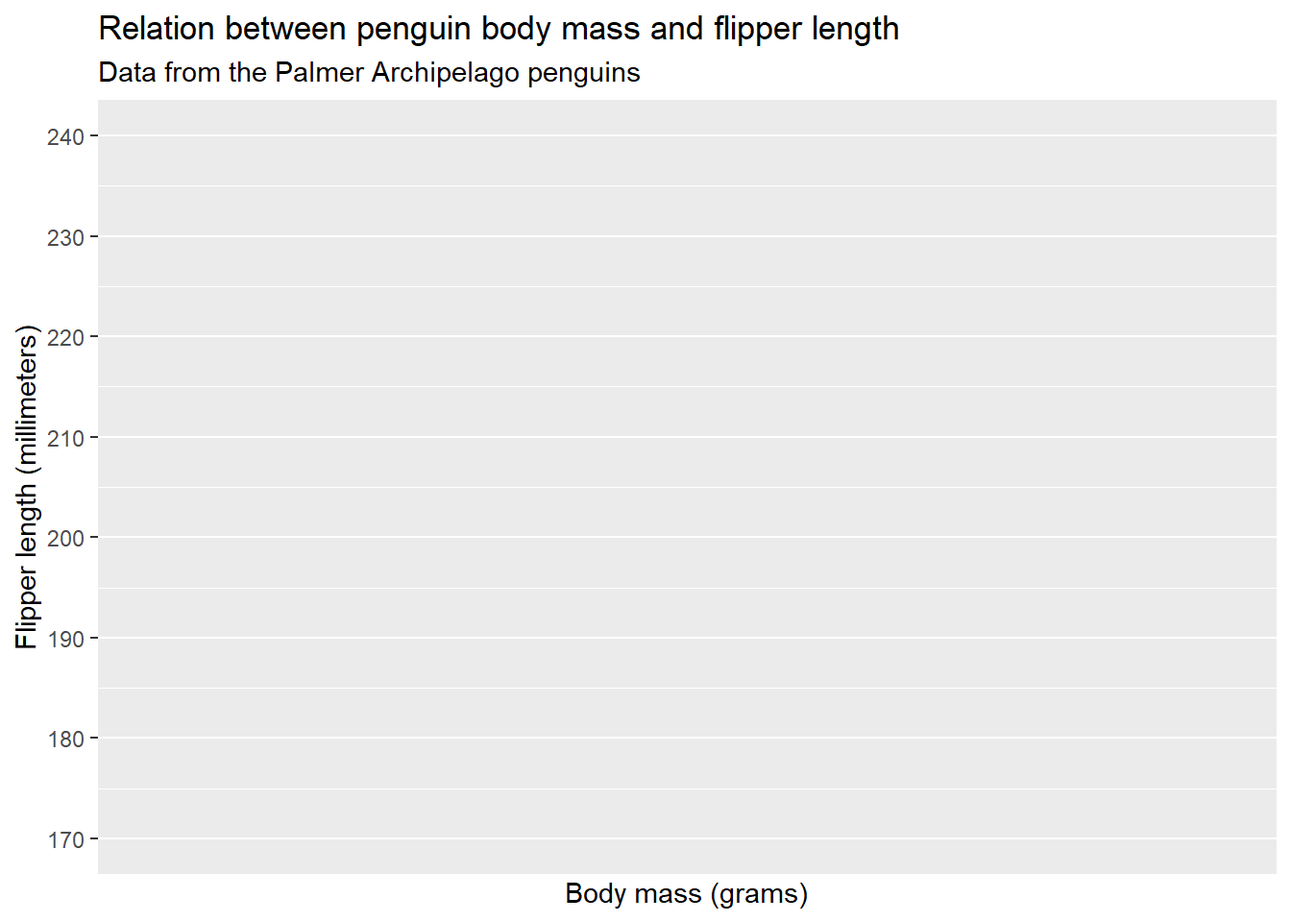
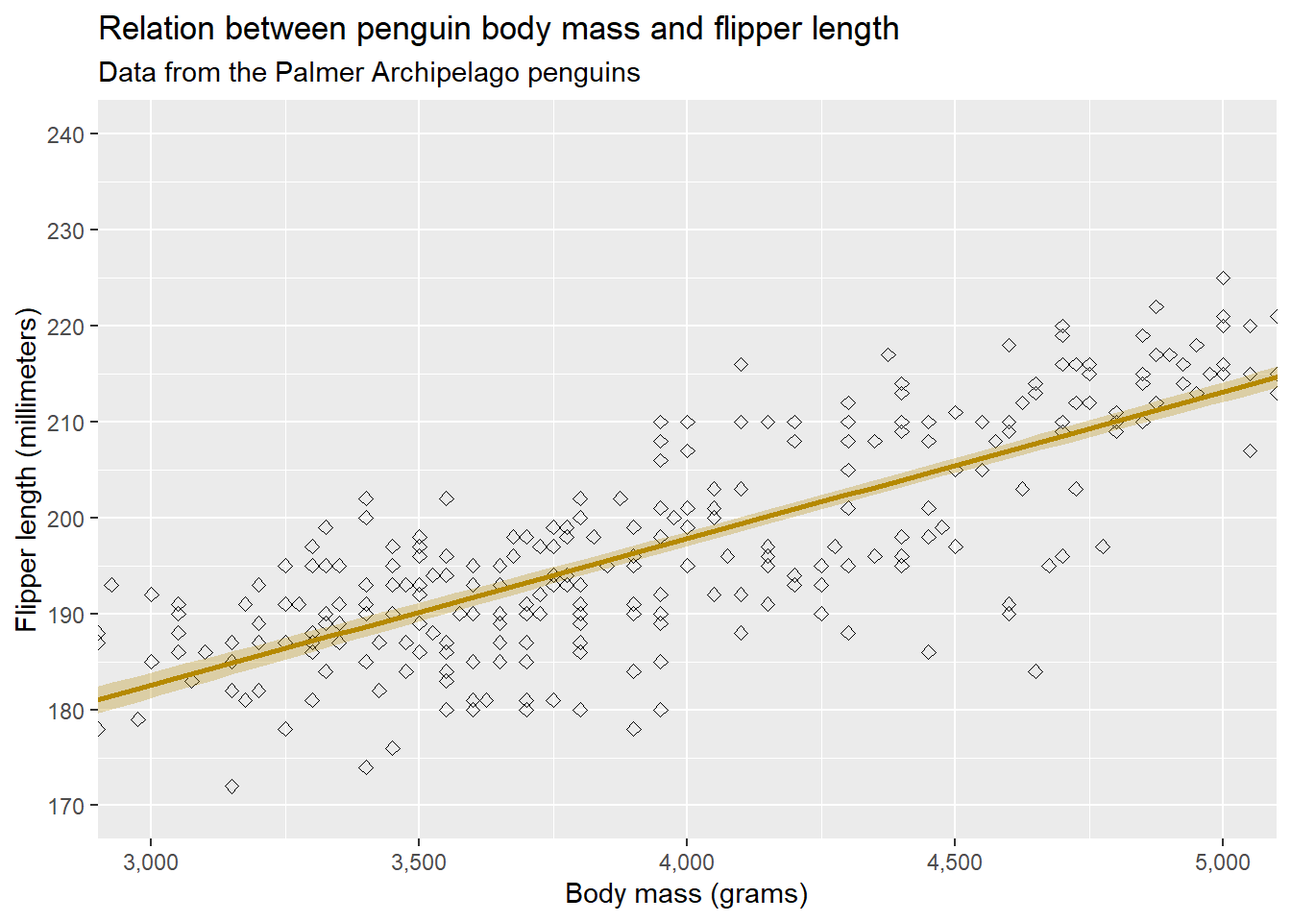
Built site for gh-pages

diff --git a/plotting.html b/plotting.html
@@ -424,13 +424,10 @@ pre > code.sourceCode > span > a:first-child::before { text-decoration: underlin
 <p>As example data, we will use the package <code>{palmerpenguins}</code>, which contains data on 344 penguins from three islands in the Palmer Archipelago, Antarctica (more <a href="https://allisonhorst.github.io/palmerpenguins/">here</a>).</p>
 <p>We will also load the <code>{ggplot2}</code> package. The <code>{graphics}</code> package is installed and loaded by default.</p>
 <div class="cell">
-<details class="code-fold">
-<summary>Answer</summary>
 <div class="sourceCode cell-code" id="cb1"><pre class="sourceCode numberSource r number-lines code-with-copy"><code class="sourceCode r"><span id="cb1-1"><a href="#cb1-1"></a><span class="co"># Load packages</span></span>
 <span id="cb1-2"><a href="#cb1-2"></a>pacman<span class="sc">::</span><span class="fu">p_load</span>(<span class="st">"ggplot2"</span>,          <span class="co"># Data visualization</span></span>
 <span id="cb1-3"><a href="#cb1-3"></a>               <span class="st">"palmerpenguins"</span>    <span class="co"># Example data</span></span>
 <span id="cb1-4"><a href="#cb1-4"></a>               )</span></code><button title="Copy to Clipboard" class="code-copy-button"><i class="bi"></i></button></pre></div>
-</details>
 </div>
 </section>
 <section id="ggplot2" class="level2">
@@ -440,10 +437,7 @@ pre > code.sourceCode > span > a:first-child::before { text-decoration: underlin
 <h3 class="anchored" data-anchor-id="layer-1-the-data">Layer 1: the data</h3>
 <p>The first layer we specify is the data layer. In this layer, we specify our data and the mapping of the aesthetics, meaning we define what our x-axis will portray, the y-axis, what colours, etc. will portray. This first layer is called using <code>ggplot()</code>:</p>
 <div class="cell">
-<details class="code-fold">
-<summary>Answer</summary>
 <div class="sourceCode cell-code" id="cb2"><pre class="sourceCode numberSource r number-lines code-with-copy"><code class="sourceCode r"><span id="cb2-1"><a href="#cb2-1"></a><span class="fu">ggplot</span>(penguins, <span class="fu">aes</span>(<span class="at">x =</span> body_mass_g, <span class="at">y =</span> flipper_length_mm))</span></code><button title="Copy to Clipboard" class="code-copy-button"><i class="bi"></i></button></pre></div>
-</details>
 <div class="cell-output-display">
 <div>
 <figure class="figure">
@@ -459,12 +453,9 @@ pre > code.sourceCode > span > a:first-child::before { text-decoration: underlin
 <p>Now we can add the geometries. We are offered a large number of geometries by <code>{ggplot2}</code>, with some basics including points, lines, bars, histograms, rectangles, segments, steps, and ribbons. Each geometry is called by a <code>geom_...()</code> function, such as <code>geom_point()</code> and <code>geom_line()</code>.</p>
 <p>For our figure, we will add points.</p>
 <div class="cell">
-<details class="code-fold">
-<summary>Answer</summary>
 <div class="sourceCode cell-code" id="cb3"><pre class="sourceCode numberSource r number-lines code-with-copy"><code class="sourceCode r"><span id="cb3-1"><a href="#cb3-1"></a><span class="fu">ggplot</span>(penguins, <span class="fu">aes</span>(<span class="at">x =</span> body_mass_g, <span class="at">y =</span> flipper_length_mm)) <span class="sc">+</span></span>
 <span id="cb3-2"><a href="#cb3-2"></a>    <span class="co"># Geometries</span></span>
 <span id="cb3-3"><a href="#cb3-3"></a>    <span class="fu">geom_point</span>()</span></code><button title="Copy to Clipboard" class="code-copy-button"><i class="bi"></i></button></pre></div>
-</details>
 <div class="cell-output cell-output-stderr">
 <pre><code>Warning: Removed 2 rows containing missing values or values outside the scale range
 (`geom_point()`).</code></pre>
@@ -482,13 +473,10 @@ pre > code.sourceCode > span > a:first-child::before { text-decoration: underlin
 <p>Note that any geometry is applied in subsequent order. If we add a trendline (<code>geom_smooth(method = "lm", formula = "y ~ x")</code>), this will be drawn on top of the points if we specify it after <code>geom_point()</code> or before if we specify it before <code>geom_point()</code>.</p>
 <p>Let’s do this now:</p>
 <div class="cell">
-<details class="code-fold">
-<summary>Answer</summary>
 <div class="sourceCode cell-code" id="cb5"><pre class="sourceCode numberSource r number-lines code-with-copy"><code class="sourceCode r"><span id="cb5-1"><a href="#cb5-1"></a><span class="fu">ggplot</span>(penguins, <span class="fu">aes</span>(<span class="at">x =</span> body_mass_g, <span class="at">y =</span> flipper_length_mm)) <span class="sc">+</span></span>
 <span id="cb5-2"><a href="#cb5-2"></a>    <span class="co"># Geometries</span></span>
 <span id="cb5-3"><a href="#cb5-3"></a>    <span class="fu">geom_point</span>(<span class="at">shape =</span> <span class="dv">5</span>) <span class="sc">+</span></span>
 <span id="cb5-4"><a href="#cb5-4"></a>    <span class="fu">geom_smooth</span>(<span class="at">method =</span> <span class="st">"lm"</span>, <span class="at">formula =</span> <span class="st">"y ~ x"</span>, <span class="at">colour =</span> <span class="st">"#B58900"</span>, <span class="at">fill =</span> <span class="st">"#B58900"</span>, <span class="at">alpha =</span> <span class="fl">0.3</span>) </span></code><button title="Copy to Clipboard" class="code-copy-button"><i class="bi"></i></button></pre></div>
-</details>
 <div class="cell-output cell-output-stderr">
 <pre><code>Warning: Removed 2 rows containing non-finite outside the scale range
 (`stat_smooth()`).</code></pre>
@@ -525,8 +513,6 @@ Note
 </div>
 <p>In our current plot, we have two scales: the x-axis and y-axis. We can edit these using scale functions that concur with the scale type (i.e.&nbsp;continuous, discrete, etc.). In our case, both scales are continuous, so we will use <code>scale_x_continuous()</code> and <code>scale_y_continuous()</code>. For other types of scales, we might also use <code>scale_x_discrete()</code>, <code>scale_x_date()</code>, etc.</p>
 <div class="cell">
-<details class="code-fold">
-<summary>Answer</summary>
 <div class="sourceCode cell-code" id="cb8"><pre class="sourceCode numberSource r number-lines code-with-copy"><code class="sourceCode r"><span id="cb8-1"><a href="#cb8-1"></a><span class="fu">ggplot</span>(penguins, <span class="fu">aes</span>(<span class="at">x =</span> body_mass_g, <span class="at">y =</span> flipper_length_mm)) <span class="sc">+</span></span>
 <span id="cb8-2"><a href="#cb8-2"></a>    <span class="co"># Geometries</span></span>
 <span id="cb8-3"><a href="#cb8-3"></a>    <span class="fu">geom_point</span>(<span class="at">shape =</span> <span class="dv">5</span>) <span class="sc">+</span></span>
@@ -539,7 +525,6 @@ Note
 <span id="cb8-10"><a href="#cb8-10"></a>    <span class="fu">scale_y_continuous</span>(<span class="at">name =</span> <span class="st">"Flipper length (millimeters)"</span>,</span>
 <span id="cb8-11"><a href="#cb8-11"></a>                       <span class="at">limits =</span> <span class="fu">c</span>(<span class="dv">170</span>, <span class="dv">240</span>),</span>
 <span id="cb8-12"><a href="#cb8-12"></a>                       <span class="at">breaks =</span> <span class="fu">seq</span>(<span class="dv">170</span>, <span class="dv">240</span>, <span class="dv">10</span>))                     </span></code><button title="Copy to Clipboard" class="code-copy-button"><i class="bi"></i></button></pre></div>
-</details>
 <div class="cell-output cell-output-stderr">
 <pre><code>Warning: Removed 2 rows containing non-finite outside the scale range
 (`stat_smooth()`).</code></pre>
@@ -559,8 +544,6 @@ Note
 <p>In the scale functions, we can give the name of the axis, the limits of the axis, at which points there should be ticks (<code>breaks</code>), and the labels given to each tick.</p>
 <p>One more thing we can do in the scale functions is determine the expansion. By default, <code>{ggplot2}</code> expands the axes a bit so that the figure does not seem too cropped. Sometimes, however, we might want to remove or change this. If we want to remove this, we can use <code>expand = c(0, 0)</code> in the scaling arguments for each axis:</p>
 <div class="cell">
-<details class="code-fold">
-<summary>Answer</summary>
 <div class="sourceCode cell-code" id="cb11"><pre class="sourceCode numberSource r number-lines code-with-copy"><code class="sourceCode r"><span id="cb11-1"><a href="#cb11-1"></a><span class="fu">ggplot</span>(penguins, <span class="fu">aes</span>(<span class="at">x =</span> body_mass_g, <span class="at">y =</span> flipper_length_mm)) <span class="sc">+</span></span>
 <span id="cb11-2"><a href="#cb11-2"></a>    <span class="co"># Geometries</span></span>
 <span id="cb11-3"><a href="#cb11-3"></a>    <span class="fu">geom_point</span>(<span class="at">shape =</span> <span class="dv">5</span>) <span class="sc">+</span></span>
@@ -569,12 +552,11 @@ Note
 <span id="cb11-6"><a href="#cb11-6"></a>    <span class="fu">scale_x_continuous</span>(<span class="at">name =</span> <span class="st">"Body mass (grams)"</span>,</span>
 <span id="cb11-7"><a href="#cb11-7"></a>                       <span class="at">limits =</span> <span class="fu">c</span>(<span class="dv">2500</span>, <span class="dv">6500</span>),</span>
 <span id="cb11-8"><a href="#cb11-8"></a>                       <span class="at">breaks =</span> <span class="fu">seq</span>(<span class="dv">2500</span>, <span class="dv">6500</span>, <span class="dv">500</span>),</span>
-<span id="cb11-9"><a href="#cb11-9"></a>                       <span class="at">labels =</span> <span class="fu">prettyNum</span>(<span class="fu">seq</span>(<span class="dv">2500</span>, <span class="dv">6500</span>, <span class="dv">500</span>), <span class="at">big.mark =</span> <span class="st">","</span>)) <span class="sc">+</span></span>
-<span id="cb11-10"><a href="#cb11-10"></a>    <span class="fu">scale_y_continuous</span>(<span class="at">name =</span> <span class="st">"Flipper length (millimeters)"</span>,</span>
-<span id="cb11-11"><a href="#cb11-11"></a>                       <span class="at">limits =</span> <span class="fu">c</span>(<span class="dv">170</span>, <span class="dv">240</span>),</span>
-<span id="cb11-12"><a href="#cb11-12"></a>                       <span class="at">breaks =</span> <span class="fu">seq</span>(<span class="dv">170</span>, <span class="dv">240</span>, <span class="dv">10</span>),</span>
-<span id="cb11-13"><a href="#cb11-13"></a>                       <span class="at">expand =</span> <span class="fu">c</span>(<span class="dv">0</span>, <span class="dv">0</span>))                     </span></code><button title="Copy to Clipboard" class="code-copy-button"><i class="bi"></i></button></pre></div>
-</details>
+<span id="cb11-9"><a href="#cb11-9"></a>                       <span class="at">labels =</span> <span class="fu">prettyNum</span>(<span class="fu">seq</span>(<span class="dv">2500</span>, <span class="dv">6500</span>, <span class="dv">500</span>), <span class="at">big.mark =</span> <span class="st">","</span>),</span>
+<span id="cb11-10"><a href="#cb11-10"></a>                       <span class="at">expand =</span> <span class="fu">c</span>(<span class="dv">0</span>, <span class="dv">0</span>)) <span class="sc">+</span></span>
+<span id="cb11-11"><a href="#cb11-11"></a>    <span class="fu">scale_y_continuous</span>(<span class="at">name =</span> <span class="st">"Flipper length (millimeters)"</span>,</span>
+<span id="cb11-12"><a href="#cb11-12"></a>                       <span class="at">limits =</span> <span class="fu">c</span>(<span class="dv">170</span>, <span class="dv">240</span>),</span>
+<span id="cb11-13"><a href="#cb11-13"></a>                       <span class="at">breaks =</span> <span class="fu">seq</span>(<span class="dv">170</span>, <span class="dv">240</span>, <span class="dv">10</span>))                     </span></code><button title="Copy to Clipboard" class="code-copy-button"><i class="bi"></i></button></pre></div>
 <div class="cell-output cell-output-stderr">
 <pre><code>Warning: Removed 2 rows containing non-finite outside the scale range
 (`stat_smooth()`).</code></pre>
@@ -599,8 +581,6 @@ Note
 <p>For the axes labels, we can use <code>xlab()</code> and <code>ylab()</code> respectively. We won’t need these as we specified the name already in the scaling function, but they might be useful if you do not need the scale function. The title can be specified using the <code>ggtitle()</code> function, which also allows you to specify a subtitle. Alternatively, this can be done through the <code>labs()</code> function, which allows much more control, such as a tag (for multipanel labels where you want to tag A, B, C, etc.), a caption, and alt text (for accessibility purposes).</p>
 <p>For the plot we’re building, we will aply a title and a subtitle.</p>
 <div class="cell">
-<details class="code-fold">
-<summary>Answer</summary>
 <div class="sourceCode cell-code" id="cb14"><pre class="sourceCode numberSource r number-lines code-with-copy"><code class="sourceCode r"><span id="cb14-1"><a href="#cb14-1"></a><span class="fu">ggplot</span>(penguins, <span class="fu">aes</span>(<span class="at">x =</span> body_mass_g, <span class="at">y =</span> flipper_length_mm)) <span class="sc">+</span></span>
 <span id="cb14-2"><a href="#cb14-2"></a>    <span class="co"># Geometries</span></span>
 <span id="cb14-3"><a href="#cb14-3"></a>    <span class="fu">geom_point</span>(<span class="at">shape =</span> <span class="dv">5</span>) <span class="sc">+</span></span>
@@ -615,7 +595,6 @@ Note
 <span id="cb14-12"><a href="#cb14-12"></a>                       <span class="at">breaks =</span> <span class="fu">seq</span>(<span class="dv">170</span>, <span class="dv">240</span>, <span class="dv">10</span>)) <span class="sc">+</span></span>
 <span id="cb14-13"><a href="#cb14-13"></a>    <span class="co"># Labels</span></span>
 <span id="cb14-14"><a href="#cb14-14"></a>    <span class="fu">ggtitle</span>(<span class="st">"Relation between penguin body mass and flipper length"</span>, <span class="at">subtitle =</span> <span class="st">"Data from the Palmer Archipelago penguins"</span>)                 </span></code><button title="Copy to Clipboard" class="code-copy-button"><i class="bi"></i></button></pre></div>
-</details>
 <div class="cell-output cell-output-stderr">
 <pre><code>Warning: Removed 2 rows containing non-finite outside the scale range
 (`stat_smooth()`).</code></pre>
@@ -639,8 +618,6 @@ Note
 <h4 class="anchored" data-anchor-id="coord_cartesian"><code>coord_cartesian()</code></h4>
 <p>We have already seen that we can limit our axes using the <code>limits</code> argument in the scaling functions. However, if we limit our axis too much, data that falls outside of this range will be removed. If we want to limit the axes without data being removed, we can use the arguments <code>xlim =</code> and <code>ylim =</code> in the function <code>coord_cartesian()</code>. As an example:</p>
 <div class="cell">
-<details class="code-fold">
-<summary>Answer</summary>
 <div class="sourceCode cell-code" id="cb17"><pre class="sourceCode numberSource r number-lines code-with-copy"><code class="sourceCode r"><span id="cb17-1"><a href="#cb17-1"></a><span class="fu">ggplot</span>(penguins, <span class="fu">aes</span>(<span class="at">x =</span> body_mass_g, <span class="at">y =</span> flipper_length_mm)) <span class="sc">+</span></span>
 <span id="cb17-2"><a href="#cb17-2"></a>    <span class="co"># Geometries</span></span>
 <span id="cb17-3"><a href="#cb17-3"></a>    <span class="fu">geom_point</span>(<span class="at">shape =</span> <span class="dv">5</span>) <span class="sc">+</span></span>
@@ -656,8 +633,7 @@ Note
 <span id="cb17-13"><a href="#cb17-13"></a>    <span class="co"># Labels</span></span>
 <span id="cb17-14"><a href="#cb17-14"></a>    <span class="fu">ggtitle</span>(<span class="st">"Relation between penguin body mass and flipper length"</span>, <span class="at">subtitle =</span> <span class="st">"Data from the Palmer Archipelago penguins"</span>) <span class="sc">+</span></span>
 <span id="cb17-15"><a href="#cb17-15"></a>    <span class="co"># Transformations</span></span>
-<span id="cb17-16"><a href="#cb17-16"></a>    <span class="fu">coord_cartesian</span>(<span class="at">xlim =</span> <span class="fu">c</span>(<span class="dv">180</span>, <span class="dv">220</span>))             </span></code><button title="Copy to Clipboard" class="code-copy-button"><i class="bi"></i></button></pre></div>
-</details>
+<span id="cb17-16"><a href="#cb17-16"></a>    <span class="fu">coord_cartesian</span>(<span class="at">xlim =</span> <span class="fu">c</span>(<span class="dv">3000</span>, <span class="dv">5000</span>))             </span></code><button title="Copy to Clipboard" class="code-copy-button"><i class="bi"></i></button></pre></div>
 <div class="cell-output cell-output-stderr">
 <pre><code>Warning: Removed 2 rows containing non-finite outside the scale range
 (`stat_smooth()`).</code></pre>

diff --git a/rstudio.html b/rstudio.html
@@ -388,7 +388,7 @@ ul.task-list li input[type="checkbox"] {
 <section id="finding-your-way-around-rstudio" class="level2">
 <h2 class="anchored" data-anchor-id="finding-your-way-around-rstudio">Finding your way around RStudio</h2>
 <p>Now let’s see what RStudio offers us compared to the graphical user interface of R itself. When we open RStudio, <a href="#fig-rstudio" class="quarto-xref">Figure&nbsp;1</a> shows what we see:</p>
-<div id="fig-rstudio" class="quarto-float quarto-figure quarto-figure-center anchored" alt="RStudio" data-fig-align="center">
+<div id="fig-rstudio" class="quarto-float quarto-figure quarto-figure-center anchored" data-fig-align="center" alt="RStudio">
 <figure class="quarto-float quarto-float-fig figure">
 <div aria-describedby="fig-rstudio-caption-0ceaefa1-69ba-4598-a22c-09a6ac19f8ca">
 <img src="images/rstudio.png" class="img-fluid quarto-figure quarto-figure-center figure-img" alt="RStudio">
@@ -414,7 +414,7 @@ Figure&nbsp;1: Default RStudio
 <li>The last tab of interest for now, the ‘Viewer’ tab, allows you to view created documents. Sometimes, R allows you to documents, such as HTML documents (of which we will see an example later on), which can then be visually inspected in the viewer before export.</li>
 </ol></li>
 </ol>
-<div id="fig-rstudio_interface" class="quarto-float quarto-figure quarto-figure-center anchored" alt="Labelled RStudio interface" data-fig-align="center">
+<div id="fig-rstudio_interface" class="quarto-float quarto-figure quarto-figure-center anchored" data-fig-align="center" alt="Labelled RStudio interface">
 <figure class="quarto-float quarto-float-fig figure">
 <div aria-describedby="fig-rstudio_interface-caption-0ceaefa1-69ba-4598-a22c-09a6ac19f8ca">
 <img src="images/rstudio_interface.png" class="img-fluid quarto-figure quarto-figure-center figure-img" alt="Labelled RStudio interface">
@@ -430,7 +430,7 @@ Figure&nbsp;2: RStudio interface
 <h3 class="anchored" data-anchor-id="settings">Settings</h3>
 <p>Second, let’s highlight some good settings that can ease your programming in R. The settings I will highlight here are my personal preference and in no way something you must adhere to, but it is good to know that they exist and that get an idea of the extent to which you can personalize the way RStudio works for you.</p>
 <p>To open the settings, you can go to ‘Tools’ in the menu bar at the top of the screen, and select ‘Global options’ in the drop-down menu, shown in <a href="#fig-global_options" class="quarto-xref">Figure&nbsp;3</a>.</p>
-<div id="fig-global_options" class="quarto-float quarto-figure quarto-figure-center anchored" alt="Location of global options" data-fig-align="center">
+<div id="fig-global_options" class="quarto-float quarto-figure quarto-figure-center anchored" data-fig-align="center" alt="Location of global options">
 <figure class="quarto-float quarto-float-fig figure">
 <div aria-describedby="fig-global_options-caption-0ceaefa1-69ba-4598-a22c-09a6ac19f8ca">
 <img src="images/rstudio_global-options.png" class="img-fluid quarto-figure quarto-figure-center figure-img" alt="Location of global options">
@@ -443,7 +443,7 @@ Figure&nbsp;3: Going to global options
 <section id="saving-the-workspace" class="level4">
 <h4 class="anchored" data-anchor-id="saving-the-workspace">Saving the workspace</h4>
 <p>A first setting I want to highlight is saving the workspace. By default, when you exit RStudio, RStudio will ask you whether you want to save the workspace. The saved workspace will then be restored upon re-opening R. In other words, any data you created and loaded in would be saved upon quitting RStudio and loaded back in when you start RStudio again. Although this may sound useful, it also means that all data you create needs to be removed manually. This can quickly cause problems with memory and the speed of R and your device. Therefore I suggest that under ‘General’ you remove the tick from ‘Restore .RData into workspace at startup’ and set Save workspace to .RData on exit to Never as seen in <a href="#fig-workspace" class="quarto-xref">Figure&nbsp;4</a>.</p>
-<div id="fig-workspace" class="quarto-float quarto-figure quarto-figure-center anchored" alt="workspace settings" data-fig-align="center">
+<div id="fig-workspace" class="quarto-float quarto-figure quarto-figure-center anchored" data-fig-align="center" alt="workspace settings">
 <figure class="quarto-float quarto-float-fig figure">
 <div aria-describedby="fig-workspace-caption-0ceaefa1-69ba-4598-a22c-09a6ac19f8ca">
 <img src="images/global-options.png" class="img-fluid quarto-figure quarto-figure-center figure-img" style="width:70.0%" alt="workspace settings">
@@ -463,7 +463,7 @@ Figure&nbsp;4: Workspace settings
 <li><p>Highlight functions: in R, we can calculate many things using functions (more on this later). However, these normally are the same colour as the rest of your code. I prefer to highlight functions to increase readability. You can do this by ticking ‘Highlight R function calls’.</p></li>
 <li><p>Rainbow parentheses: many of the code that is written in R uses parentheses: (). However, many parentheses within each other might become very confusing: (((()))). Although R highlights the corresponding parenthesis, I find it helpful to additionally colour corresponding parentheses the same colour, while non-corresponding parentheses are coloured different. You can do this by ticking ‘Rainbow parentheses’.</p></li>
 </ul>
-<div id="fig-code_display" class="quarto-float quarto-figure quarto-figure-center anchored" alt="code display settings" data-fig-align="center">
+<div id="fig-code_display" class="quarto-float quarto-figure quarto-figure-center anchored" data-fig-align="center" alt="code display settings">
 <figure class="quarto-float quarto-float-fig figure">
 <div aria-describedby="fig-code_display-caption-0ceaefa1-69ba-4598-a22c-09a6ac19f8ca">
 <img src="images/global-options_code_display.png" class="img-fluid quarto-figure quarto-figure-center figure-img" style="width:70.0%" alt="code display settings">
@@ -477,7 +477,7 @@ Figure&nbsp;5: Code display settings
 <section id="rstudio-appearance" class="level4">
 <h4 class="anchored" data-anchor-id="rstudio-appearance">RStudio appearance</h4>
 <p>When working in RStudio, I prefer the screen to not be too bright. Additionally, I modified the way the code looks to my own preferences. You can try what works best for you under ‘Appearance’ (<a href="#fig-appearance" class="quarto-xref">Figure&nbsp;6</a>).</p>
-<div id="fig-appearance" class="quarto-float quarto-figure quarto-figure-center anchored" alt="appearance settings" data-fig-align="center">
+<div id="fig-appearance" class="quarto-float quarto-figure quarto-figure-center anchored" data-fig-align="center" alt="appearance settings">
 <figure class="quarto-float quarto-float-fig figure">
 <div aria-describedby="fig-appearance-caption-0ceaefa1-69ba-4598-a22c-09a6ac19f8ca">
 <img src="images/global-options_appearance.png" class="img-fluid quarto-figure quarto-figure-center figure-img" style="width:70.0%" alt="appearance settings">

diff --git a/data.html b/data.html
@@ -518,7 +518,7 @@ pre > code.sourceCode > span > a:first-child::before { text-decoration: underlin
 <section id="point-and-click-import" class="level3">
 <h3 class="anchored" data-anchor-id="point-and-click-import">Point-and-click import</h3>
 <p>Of course it’s nice that all these functions exist to read in your data, but they do not let us preview what the data is going to look like. If we want to preview the data before reading it, in RStudio, we can go to the menu bar, click File and then Import Dataset (<a href="#fig-import" class="quarto-xref">Figure&nbsp;1</a>):</p>
-<div id="fig-import" class="quarto-float quarto-figure quarto-figure-center anchored" alt="import" data-fig-align="center">
+<div id="fig-import" class="quarto-float quarto-figure quarto-figure-center anchored" data-fig-align="center" alt="import">
 <figure class="quarto-float quarto-float-fig figure">
 <div aria-describedby="fig-import-caption-0ceaefa1-69ba-4598-a22c-09a6ac19f8ca">
 <img src="images/import.png" class="img-fluid quarto-figure quarto-figure-center figure-img" alt="import">
@@ -529,7 +529,7 @@ Figure&nbsp;1: Import data
 </figure>
 </div>
 <p>From there, we can choose the type of data to import (e.g., Excel) and we will be presented with a viewer (<a href="#fig-viewer" class="quarto-xref">Figure&nbsp;2</a>). In the upper right corner of the viewer, we can select our data with ‘Browse’, which then shows how the data will look like after import. In the lower left corner, we can adjust some options. Lastly, in the lower right corner, we see the code that will be run to read this data into our Global Enviroment. Once happy with how the data will look upon import, we can press ‘Import’ and the data will be imported. You can then copy the code from the console to add it to your script so that you do not need to repeat this step again.</p>
-<div id="fig-viewer" class="quarto-float quarto-figure quarto-figure-center anchored" alt="data-viewer" data-fig-align="center">
+<div id="fig-viewer" class="quarto-float quarto-figure quarto-figure-center anchored" data-fig-align="center" alt="data-viewer">
 <figure class="quarto-float quarto-float-fig figure">
 <div aria-describedby="fig-viewer-caption-0ceaefa1-69ba-4598-a22c-09a6ac19f8ca">
 <img src="images/viewer.png" class="img-fluid quarto-figure quarto-figure-center figure-img" alt="data-viewer">

diff --git a/packages.html b/packages.html
@@ -446,7 +446,7 @@ pre > code.sourceCode > span > a:first-child::before { text-decoration: underlin
 <h2 class="anchored" data-anchor-id="pre-installed-packages">Pre-installed packages</h2>
 <p>Some packages come pre-installed with R. For example, <code>sum()</code> comes from the <code>base</code> package, while <code>sd()</code> comes from the <code>stats</code> package. We can see the currently installed packages in RStudio in the lower right window in the tab ‘packages’, as seen in <a href="#fig-packages" class="quarto-xref">Figure&nbsp;1</a>. Mind you that in <a href="#fig-packages" class="quarto-xref">Figure&nbsp;1</a>, there might be different packages than in your window, depending on what packages are already or not yet installed.</p>
 <p>In <a href="#fig-packages" class="quarto-xref">Figure&nbsp;1</a>, you can see a checkbox, which indicates whether a package is loaded (more on that in a few lines), the package name, a description, a version, and buttons to the homepage, and an option to remove the package.</p>
-<div id="fig-packages" class="quarto-float quarto-figure quarto-figure-center anchored" data-fig-align="center" alt="Installed packages">
+<div id="fig-packages" class="quarto-float quarto-figure quarto-figure-center anchored" alt="Installed packages" data-fig-align="center">
 <figure class="quarto-float quarto-float-fig figure">
 <div aria-describedby="fig-packages-caption-0ceaefa1-69ba-4598-a22c-09a6ac19f8ca">
 <img src="images/packages.png" class="img-fluid quarto-figure quarto-figure-center figure-img" alt="Installed packages">

diff --git a/r.html b/r.html
@@ -389,7 +389,7 @@ ul.task-list li input[type="checkbox"] {
 <h2 class="anchored" data-anchor-id="installing-r">Installing R</h2>
 <p>Let’s start by installing R. R can be used on Windows, Apple, and Linux operating systems. To download R, you can go to <a href="https://cran.rstudio.com" class="uri">https://cran.rstudio.com</a>, where you can choose the download link applicable to your platform.</p>
 <p>After R is installed, you can open it and you will see the following screen:</p>
-<div id="fig-r_gui" class="quarto-float quarto-figure quarto-figure-center anchored" alt="R graphical user interface" data-fig-align="center">
+<div id="fig-r_gui" class="quarto-float quarto-figure quarto-figure-center anchored" data-fig-align="center" alt="R graphical user interface">
 <figure class="quarto-float quarto-float-fig figure">
 <div aria-describedby="fig-r_gui-caption-0ceaefa1-69ba-4598-a22c-09a6ac19f8ca">
 <img src="images/rgui.png" class="img-fluid quarto-figure quarto-figure-center figure-img" alt="R graphical user interface">
